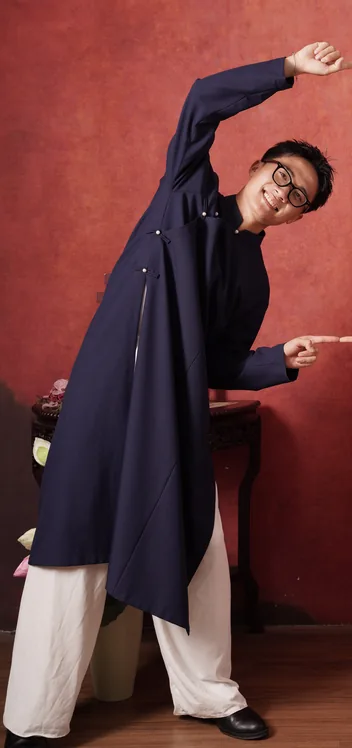
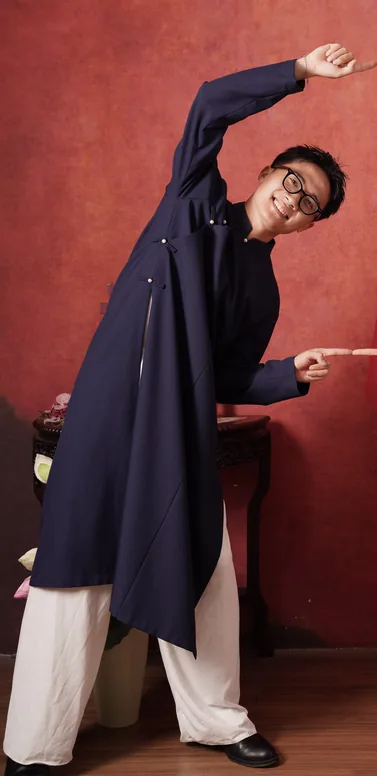
Move the puzzle cut to where the top fingertips meet; new bride map link

diff --git a/src/config.js b/src/config.js
@@ -54,8 +54,8 @@ export const puzzle = {
   // tab = mảnh phải có tai lồi sang trái ('left') hay mảnh trái có tai lồi sang phải ('right'),
   // ratio = cao/rộng của mảnh phải, left = bề ngang mảnh trái so với mảnh phải.
   tab: 'left',
-  ratio: 1.871,
-  left: 0.88,
+  ratio: 1.939,
+  left: 0.942,
   pieces: [
     { src: 'photos/puzzle-left.webp', alt: 'Chú rể' },
     { src: 'photos/puzzle-right.webp', alt: 'Cô dâu' },
@@ -103,7 +103,7 @@ export const venues = [
     hall: 'Thứ Bảy 05.12.2026 · 10:00',
     lunar: 'Tức ngày 27 tháng 10 năm Bính Ngọ',
     address: 'Phương Nhi, Thôn Phương Mai, xã Tân Minh, tỉnh Ninh Bình',
-    mapUrl: 'https://maps.app.goo.gl/L2c2JPkQ2pCituM56',
+    mapUrl: 'https://maps.app.goo.gl/DWRtGCE1NV5wdysb8?g_st=ic',
     illustration: 'art/venue.webp',
   },
 ];

diff --git a/scripts/prepare-photos.py b/scripts/prepare-photos.py
@@ -50,7 +50,7 @@ STICKERS = []
 # Mảnh trái cố định, mảnh phải kéo vào. Tai ghép rộng 0.18 bề ngang mảnh phải.
 # Hai mảnh có thể rộng khác nhau để đường cắt nằm đúng chỗ mình muốn mà không phải cắt bớt người bên trái.
 # Chạy xong, chép ba giá trị tab, ratio và left in ra vào puzzle trong src/config.js.
-PUZZLE = ('anh-1.JPG', 0.515, 0.0, 0.995, 0.21, 0.94)
+PUZZLE = ('anh-1.JPG', 0.532, 0.0, 0.995, 0.21, 0.94)
 PUZZLE_W = 400  # bề ngang mảnh phải (px)
 # Tai ghép nằm ở mảnh nào: 'left' = mảnh phải có tai lồi sang trái, 'right' = mảnh trái có tai lồi sang phải.
 # Đường cắt thẳng luôn ở vị trí `cut`, tai ghép lấn sang phía bên kia.
